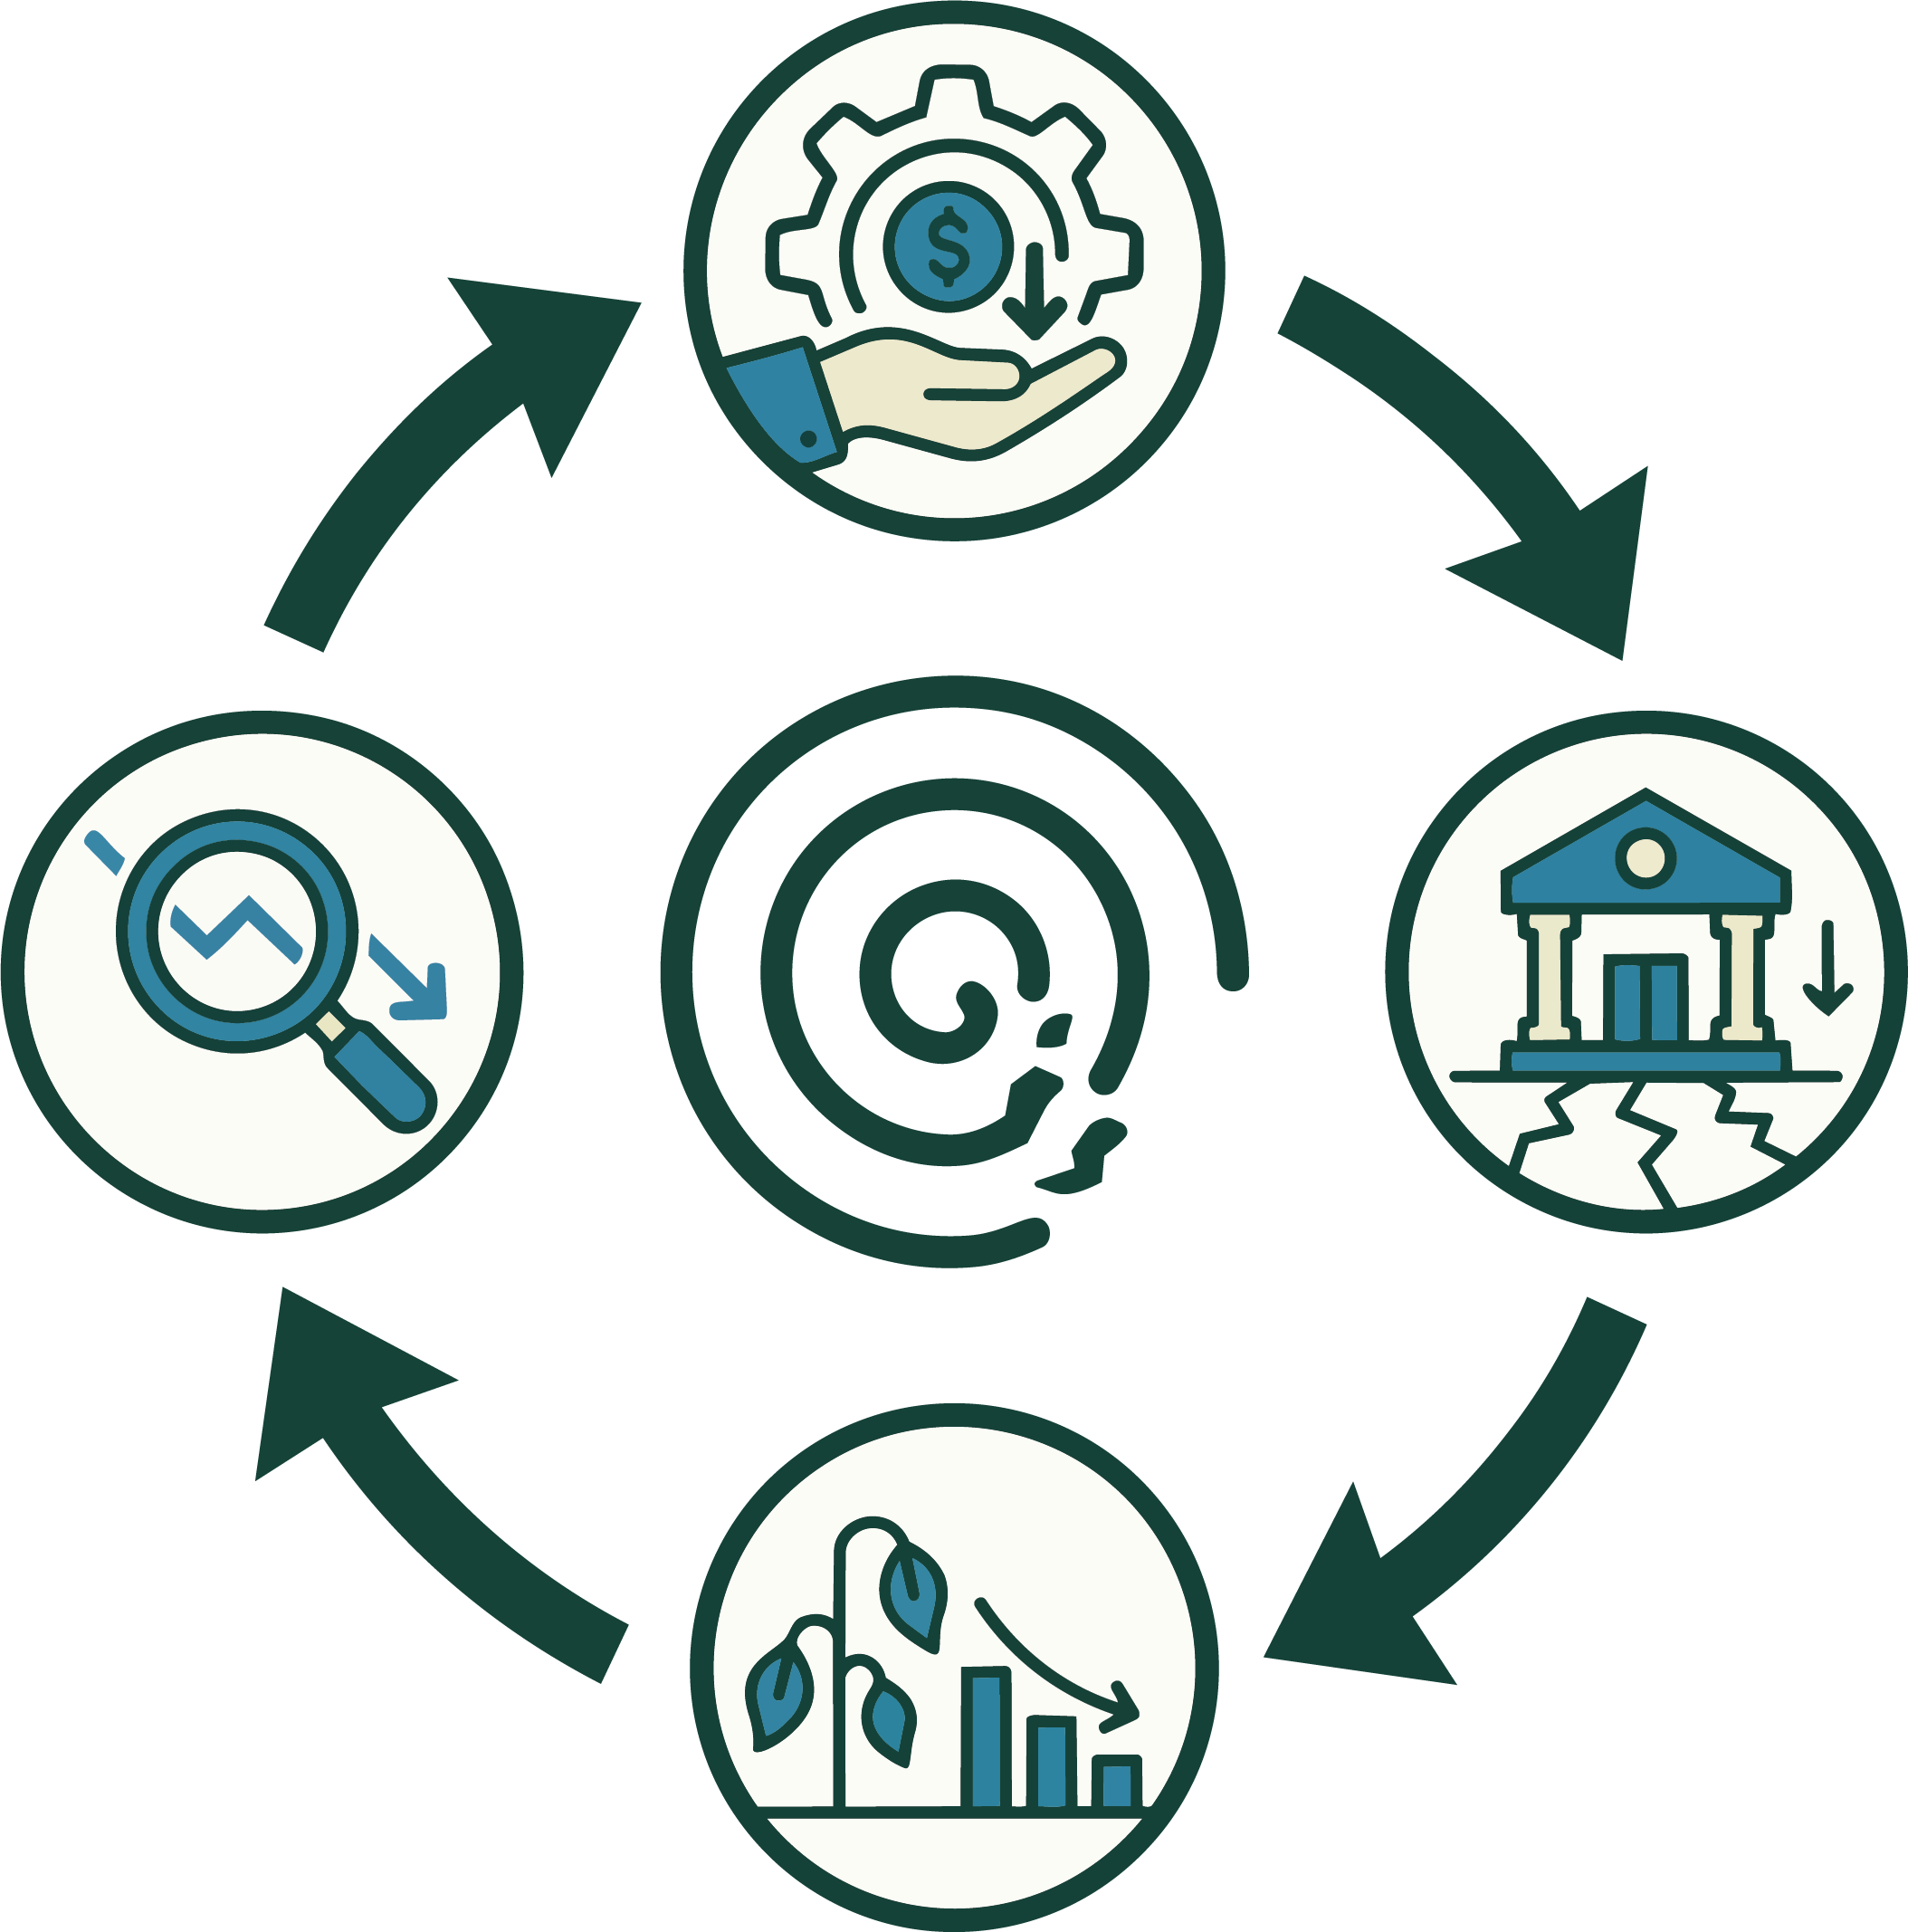
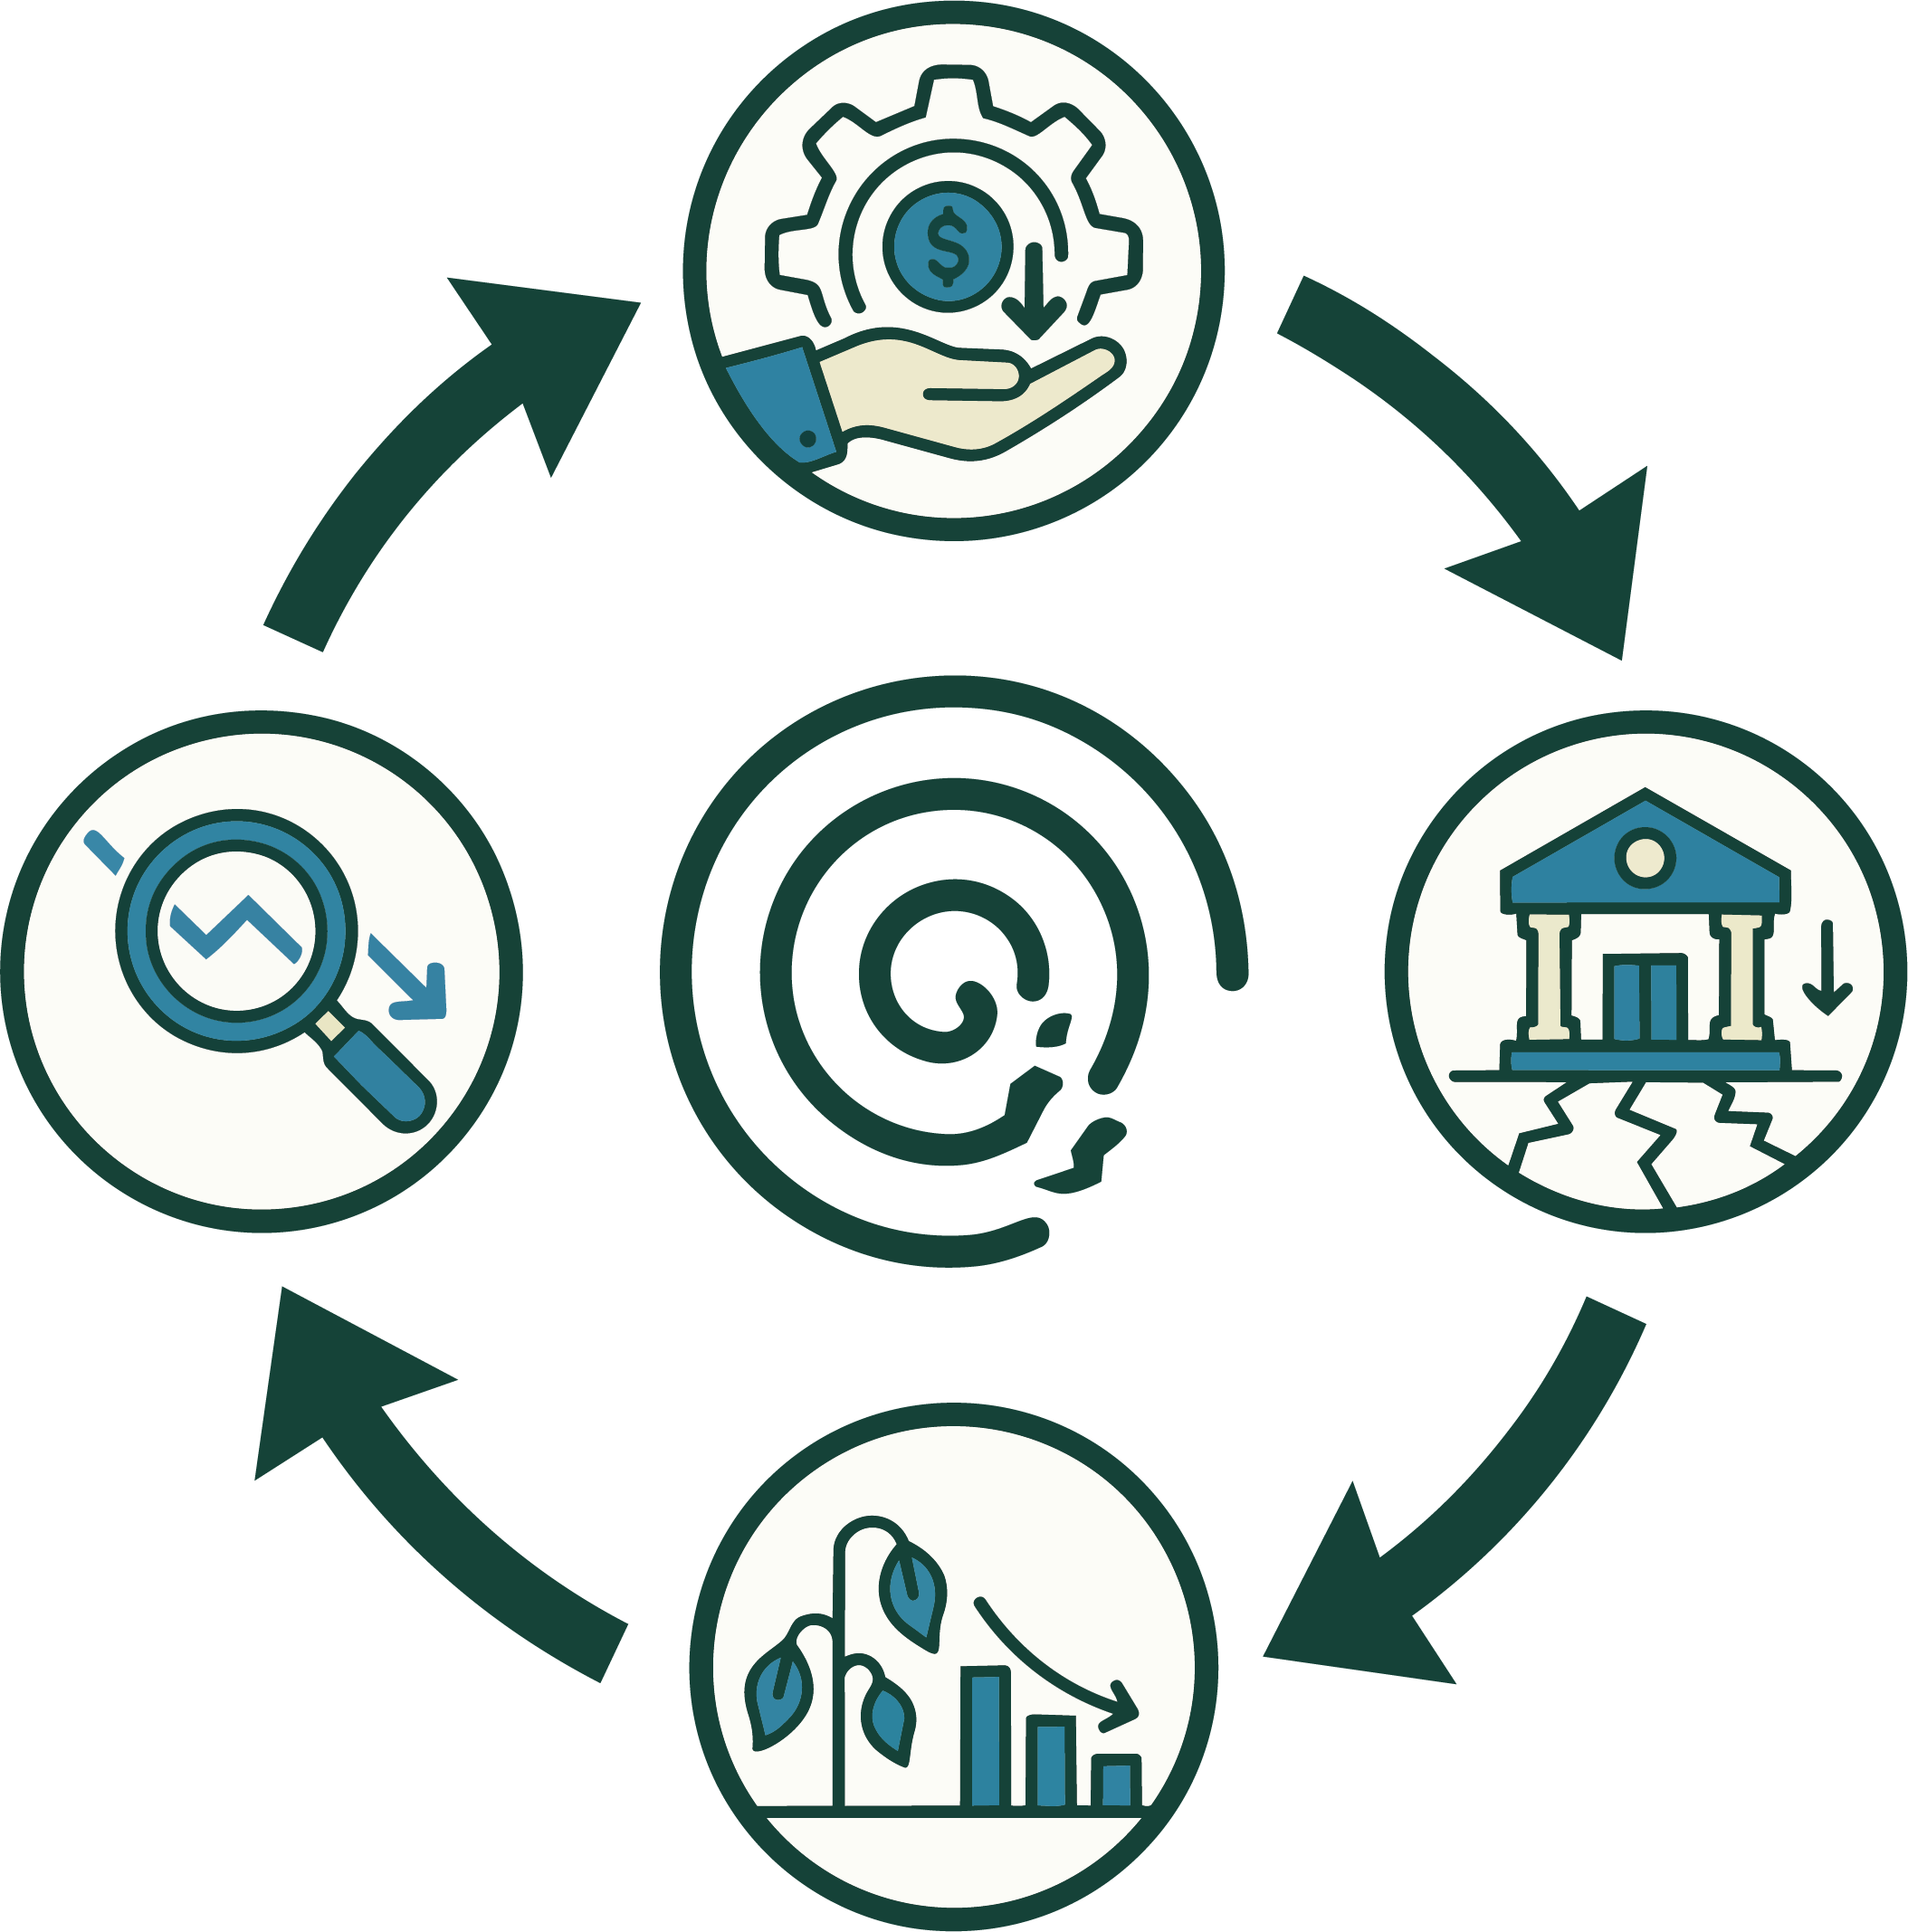
Wire featured figure, number all captions, fix dark-mode figure plate
- Featured homepage card: add figure/figlabel/figcaption frontmatter to the
  two image-based nonprofit posts so the newest fills the featured Fig. 1 slot
  (the extractFigures cycler only auto-pulls TikZ figures; raster figures use
  the metadata override path the template already supports).
- Number every figure/table caption (Figure 1/2, Table 1) in both posts and
  reference each in the prose.
- Back-office post: add the owned-stack hub diagram as Figure 2.
- Swap the three diagrams for transparent-background renders; add owned-by-you.png.
- Dark mode: pin diagram figure containers to a light cream plate (like the
  .tikz-figure constant plate) and darken the inside captions to the light
  theme's text tiers, so transparent dark-ink diagrams and their captions stay
  legible on dark backgrounds.

diff --git a/css/default.css b/css/default.css
@@ -349,6 +349,24 @@ a { color: inherit; text-decoration: none; }
 }
 .post-body img { display: block; margin: 18px auto; }
 
+/* Diagram figures are raster PNGs carrying dark ink on a TRANSPARENT ground, so
+   in dark mode they'd disappear into the dark panel. Pin the figure container to
+   a light cream plate in dark mode (same rationale as the .tikz-figure constant
+   plate) and darken the captions/labels that sit inside it back to the light-
+   theme tiers so they stay legible on the cream. */
+[data-theme='dark'] .post-body figure,
+[data-theme='dark'] .featured-figure {
+  background: #FCFAF5;
+  border-color: #E4DFD5;
+}
+[data-theme='dark'] .post-body figcaption,
+[data-theme='dark'] .post-body figure figcaption,
+[data-theme='dark'] .figure-label,
+[data-theme='dark'] .figure-caption,
+[data-theme='dark'] .fig-slide-caption { color: #5A665F; }
+[data-theme='dark'] .post-body figcaption strong { color: #16221D; }
+[data-theme='dark'] .fig-slide-caption em { color: #16221D; }
+
 /* TikZ figures: rendered inline SVG carrying hardcoded ink/blue/red strokes and
    white fills, so they sit on a CONSTANT light plate that does NOT flip with the
    theme (the one intentional raw-hex exception in the screen styles). */

diff --git a/posts/2026-07-05-nonprofit-back-office-free-tools.md b/posts/2026-07-05-nonprofit-back-office-free-tools.md
@@ -3,6 +3,9 @@ title: "Stop renting what you can own: a nonprofit back office on free tools"
 date: 2026-07-05
 tags: nonprofits, infrastructure
 description: Small nonprofits quietly bleed donor and grant money on SaaS subscriptions they don't need, while free tiers from Vercel, Supabase, Firebase, and Google Apps Script would do the same job and leave them owning the infrastructure. A field guide to building your own digital footprint for near zero.
+figure: '<img src="/images/Back-office-on-free-tools.png" alt="Two mistakes drive nonprofit back-office waste: paying for unnecessary SaaS, and ignoring the free infrastructure you already have.">'
+figlabel: Two mistakes drive the waste
+figcaption: Paying for SaaS that duplicates a free tool, and letting the free infrastructure you already have gather cobwebs.
 ---
 
 Here is a failure mode I see constantly in small nonprofits, and it's expensive precisely because it looks responsible. The org signs up for a website builder, a separate form tool, a donor CRM, an email platform, a scheduling app, a file-sharing subscription — a dozen SaaS products at \$15 to \$100 a month each — and a year later a meaningful slice of the budget is going to software instead of the mission. Worse, none of it is *owned*. Stop paying and it all evaporates: the site, the data, the donor list, the whole digital footprint was rented.
@@ -11,10 +14,10 @@ This is the operator's side of the [nonprofit series](/posts/2026-07-05-how-to-v
 
 <figure>
   <img src="/images/Back-office-on-free-tools.png" alt="Two mistakes drive the waste. Left: 'Unnecessary SaaS' — a person surrounded by a wall of paid-subscription boxes throwing money in the trash while a free tool sits ignored. Right: 'Ignored infrastructure' — a team building atop a solid brick wall of existing free infrastructure that has gathered cobwebs, discarding a 'Rented SaaS' block.">
-  <figcaption>The two mistakes that drain a small nonprofit's back office: paying for SaaS that duplicates a free tool, and letting the free infrastructure you already have gather cobwebs.</figcaption>
+  <figcaption><strong>Figure 1.</strong> The two mistakes that drain a small nonprofit's back office: paying for SaaS that duplicates a free tool, and letting the free infrastructure you already have gather cobwebs.</figcaption>
 </figure>
 
-Two mistakes drive the waste. One is **paying for SaaS you don't need** — subscriptions bought to solve a problem a free tool already solves. The other is subtler: **not using the free infrastructure that's sitting right there**, so the org never builds anything it owns and stays dependent on whatever it's renting this year. Both are fixable, and the pattern is almost always the same swap:
+Two mistakes drive the waste (Figure 1). One is **paying for SaaS you don't need** — subscriptions bought to solve a problem a free tool already solves. The other is subtler: **not using the free infrastructure that's sitting right there**, so the org never builds anything it owns and stays dependent on whatever it's renting this year. Both are fixable, and the pattern is almost always the same swap:
 
 | The job          | Commonly rented          | Owned, for free                         |
 |------------------|--------------------------|-----------------------------------------|
@@ -24,9 +27,18 @@ Two mistakes drive the waste. One is **paying for SaaS you don't need** — subs
 | A real database  | Proprietary CRM           | Supabase (Postgres) or Firestore        |
 | Automation       | Zapier-style subscription | Apps Script / Cloudflare Workers        |
 
-The rest of this post is that table, expanded — organized by the job to be done.
+The rest of this post is Table 1, expanded — organized by the job to be done.
+
+*Table 1.* The core swap, by job: for each back-office need, the subscription a nonprofit commonly rents versus the free tool that owns the same job.
 
 ## The free stack, by job
+
+The pieces below tend to orbit a single free hub — usually a Google Sheet — with the other services wired to it (Figure 2).
+
+<figure>
+  <img src="/images/owned-by-you.png" alt="A hub-and-spoke diagram. At the center, a 'Google Sheets Hub' connects out to owned, free tools — Google Forms, Apps Script, Cloudflare Workers, Supabase, a volunteer portal, reports, a dashboard, and a website — all enclosed inside a boundary labeled 'Owned by your nonprofit.' Greyed-out rented SaaS categories — CRM, scheduling, email platform, website builder, form builder — float discarded outside the boundary.">
+  <figcaption><strong>Figure 2.</strong> One shape the owned stack often takes: a spreadsheet hub wired to free Google, Cloudflare, and Supabase services. Everything inside the boundary belongs to the org; the rented SaaS equivalents (greyed, outside) are the subscriptions it no longer needs.</figcaption>
+</figure>
 
 **Identity, email, and documents.** [Google for Nonprofits](https://www.google.com/nonprofits/) gives eligible orgs a *free* Google Workspace edition — real `@yourorg.org` email, Docs, Sheets, Drive, shared calendars. Microsoft has an equivalent nonprofit program. This one program replaces a stack of paid subscriptions on day one, and it's the keystone everything else hangs off of. (I've written before about [why a Workspace account ends up being the quiet center of a whole stack](/posts/2026-06-19-gcloud-firebase-and-google-workspace.html).)
 

diff --git a/posts/2026-07-06-the-overhead-myth.md b/posts/2026-07-06-the-overhead-myth.md
@@ -3,6 +3,9 @@ title: "The overhead myth: the first number donors check is the worst one"
 date: 2026-07-06
 tags: nonprofits, data
 description: The program-expense ratio is the number donors, watchdogs, and grantmakers reach for first — and the people who built the rating recanted it in 2013. A look at why the sector's favorite efficiency metric is gameable, corrosive, and best distrusted.
+figure: '<img src="/images/The-overhead-myth.png" alt="The nonprofit starvation cycle: a four-stage feedback loop of overhead expectations, underinvestment, weaker results, and confirmed distrust.">'
+figlabel: The nonprofit starvation cycle
+figcaption: Overhead expectations push orgs to underinvest, weakening results and confirming the distrust — which tightens the loop.
 ---
 
 The [donor's guide](/posts/2026-07-05-how-to-vet-a-charity.html) in this series called the program expense ratio "the single most abused number in the sector," treated it as a screen and never a verdict, and left a promissory note: *there's a whole "overhead myth" argument here that deserves its own post.* This is that post. The claim is stronger than "the ratio has a trap in it." The claim is that a decade of the ratio being the headline number donors, watchdogs, and grantmakers fixate on has actively made nonprofits worse — that the metric doesn't merely mismeasure quality, it degrades it. The people best positioned to know this are the ones who used to sell the metric, and in 2013 they said so in writing.
@@ -34,23 +37,23 @@ The mechanical critique says the ratio is noisy. The serious critique says the r
 
 <figure>
   <img src="/images/The-overhead-myth.png" alt="A four-stage feedback loop drawn as a ring of arrows around a central spiral. Top: a hand holding a gear with a dollar sign and a downward arrow — funders demand minimal overhead. Right: a columned institution standing on cracked ground — starved infrastructure. Bottom: a wilting plant beside a declining bar chart — weaker results. Left: a magnifying glass over a falling line with a down arrow — funders' distrust is confirmed, tightening the loop again.">
-  <figcaption>The nonprofit starvation cycle: unrealistic overhead expectations push organizations to underinvest in their own infrastructure, which weakens results, which confirms the distrust — and tightens the expectation for the next turn.</figcaption>
+  <figcaption><strong>Figure 1.</strong> The nonprofit starvation cycle: unrealistic overhead expectations push organizations to underinvest in their own infrastructure, which weakens results, which confirms the distrust — and tightens the expectation for the next turn.</figcaption>
 </figure>
 
-The engine of the cycle is exactly the metric this post is about. Because "low overhead" reads as virtue, the rational move for a nonprofit competing for scarce dollars is to cut the capacity that would let it do the mission better — and to hide the cuts it can't afford to make. The ratio doesn't just fail to detect dysfunction; it *rewards* it and *manufactures* it. Recent work continues to document the mechanism: a 2025 study traces how overhead-ratio pressure still drives real misreporting and underinvestment across the sector.[@Kim2025] Sixteen years after Gregory and Howard named it, the cycle is not a historical artifact.
+The engine of that loop (Figure 1) is exactly the metric this post is about. Because "low overhead" reads as virtue, the rational move for a nonprofit competing for scarce dollars is to cut the capacity that would let it do the mission better — and to hide the cuts it can't afford to make. The ratio doesn't just fail to detect dysfunction; it *rewards* it and *manufactures* it. Recent work continues to document the mechanism: a 2025 study traces how overhead-ratio pressure still drives real misreporting and underinvestment across the sector.[@Kim2025] Sixteen years after Gregory and Howard named it, the cycle is not a historical artifact.
 
 ## Why the low end is the real red flag
 
-Here is the inversion that the [donor's guide](/posts/2026-07-05-how-to-vet-a-charity.html) gestured at and this post can state flatly: a **suspiciously high** program ratio — 95% and up — is more often a warning than a virtue. It means one of a few things, none of them "well run": an organization too small or too young to have built real infrastructure; one starving itself on exactly the cycle above; or one whose accountants are simply better at the classification game. The genuinely healthy organization — the one that pays competitive salaries, keeps a [three-to-six-month reserve](/posts/2026-07-05-how-to-vet-a-charity.html), runs an evaluation function, and invests in the fundraising that will fund next year — will very often post a *lower* program ratio than the fragile one next to it. On this metric, and only on this metric, the fragile org wins. That should end your confidence in the metric.
+Here is the inversion that the [donor's guide](/posts/2026-07-05-how-to-vet-a-charity.html) gestured at and this post can state flatly: a **suspiciously high** program ratio — 95% and up — is more often a warning than a virtue. It means one of a few things, none of them "well run": an organization too small or too young to have built real infrastructure; one starving itself on exactly the cycle above; or one whose accountants are simply better at the classification game. The genuinely healthy organization — the one that pays competitive salaries, keeps a [three-to-six-month reserve](/posts/2026-07-05-how-to-vet-a-charity.html), runs an evaluation function, and invests in the fundraising that will fund next year — will very often post a *lower* program ratio than the fragile one next to it. On this metric, and only on this metric, the fragile org wins (Figure 2). That should end your confidence in the metric.
 
 <figure>
   <img src="/images/the-payoff-not-the-cycle.png" alt="Two office buildings weighed on a balance scale. On the left, a building displaying a high program-expense pie chart sits on a cracked, crumbling column and tilts precariously. On the right, a taller, solidly constructed building shows a smaller program-ratio slice but stands stable and complete on a firm base.">
-  <figcaption>Judged on the program-expense ratio alone, the fragile organization wins: the building with the higher ratio is the one cracking at its foundation, while the sturdier org posts a <em>lower</em> ratio precisely because it invests in the infrastructure that keeps it standing.</figcaption>
+  <figcaption><strong>Figure 2.</strong> Judged on the program-expense ratio alone, the fragile organization wins: the building with the higher ratio is the one cracking at its foundation, while the sturdier org posts a <em>lower</em> ratio precisely because it invests in the infrastructure that keeps it standing.</figcaption>
 </figure>
 
 ## What to look at instead
 
-None of this means finances are unknowable — it means the single ratio is the wrong lens, and the fix is triangulation, which is the whole method of the donor's guide. Read the four numbers *together* and across several years:
+None of this means finances are unknowable — it means the single ratio is the wrong lens, and the fix is triangulation, which is the whole method of the donor's guide. Read the four numbers *together* and across several years, reframing each question as in Table 1:
 
 | Instead of asking | Ask |
 | --- | --- |
@@ -58,6 +61,8 @@ None of this means finances are unknowable — it means the single ratio is the 
 | What's the program ratio this year? | Which direction is it moving over three to four years, and why? |
 | How little does it spend on itself? | Does it hold a real reserve and invest in the systems that deliver the mission? |
 | Does the CEO earn "too much"? | Is comp reasonable *against the budget and comparable orgs* (Part VII, Schedule J)? |
+
+*Table 1.* Reframing the four screens: for each overhead-flavored question on the left, the question on the right is the one that actually tracks organizational health.
 
 The watchdogs have followed their own advice. In its September 2023 methodology overhaul, **Charity Navigator removed** the administrative-expense ratio, the fundraising-expense ratio, and program-expense growth from its scoring, folding what remained into a broader rating built on finance *and accountability, impact, and governance* rather than a single efficiency fraction.[@CharityNavigator2023] The scoreboard the 2013 letter disowned has, a decade on, been partly dismantled by the people who ran it. Dan Pallotta's argument from the same period — that we ask charities to do more and more while forbidding them the overhead, growth capital, and risk-taking every for-profit takes for granted — is the same point from the operator's chair.[@Pallotta2013]
 